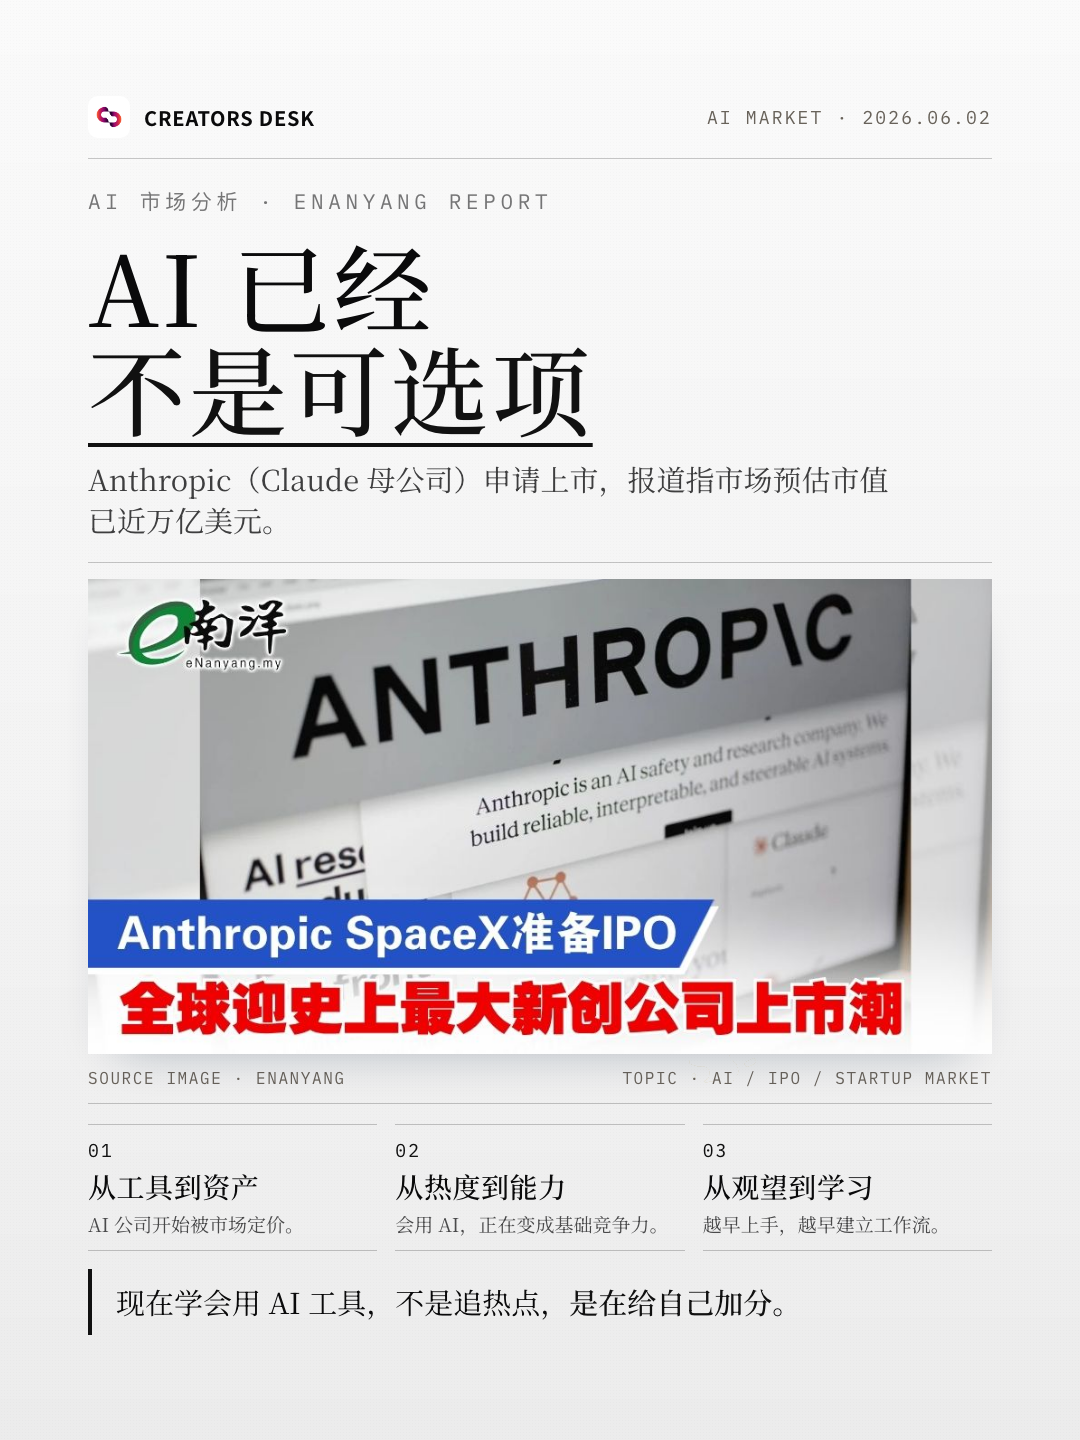
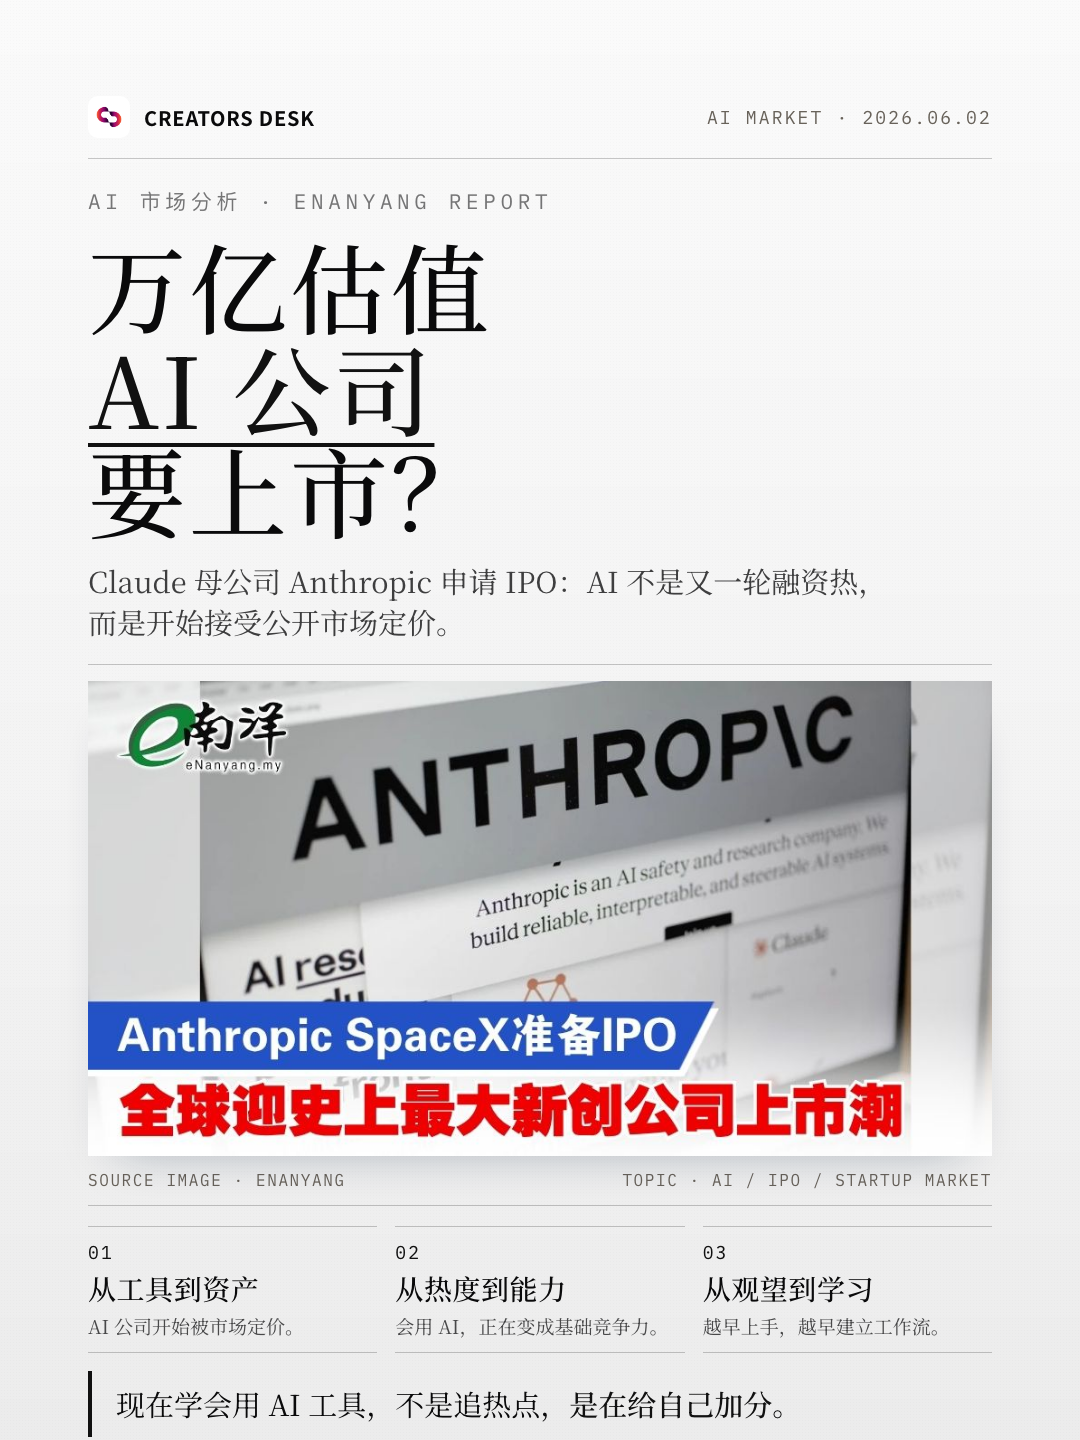
Update AI news card headline hook

diff --git a/social-card-ai-ipo-news/index.html b/social-card-ai-ipo-news/index.html
@@ -922,8 +922,8 @@
         </div>
 
         <p class="kicker">AI 市场分析 · eNanyang Report</p>
-        <h1 class="headline">AI 已经<br><span class="accent">不是可选项</span></h1>
-        <p class="deck">Anthropic（Claude 母公司）申请上市，报道指市场预估市值已近万亿美元。</p>
+        <h1 class="headline">万亿估值<br><span class="accent">AI 公司</span><br>要上市？</h1>
+        <p class="deck">Claude 母公司 Anthropic 申请 IPO：AI 不是又一轮融资热，而是开始接受公开市场定价。</p>
 
         <!-- subject map:
              source image is a wide news graphic with its own title strip and eNanyang logo.
